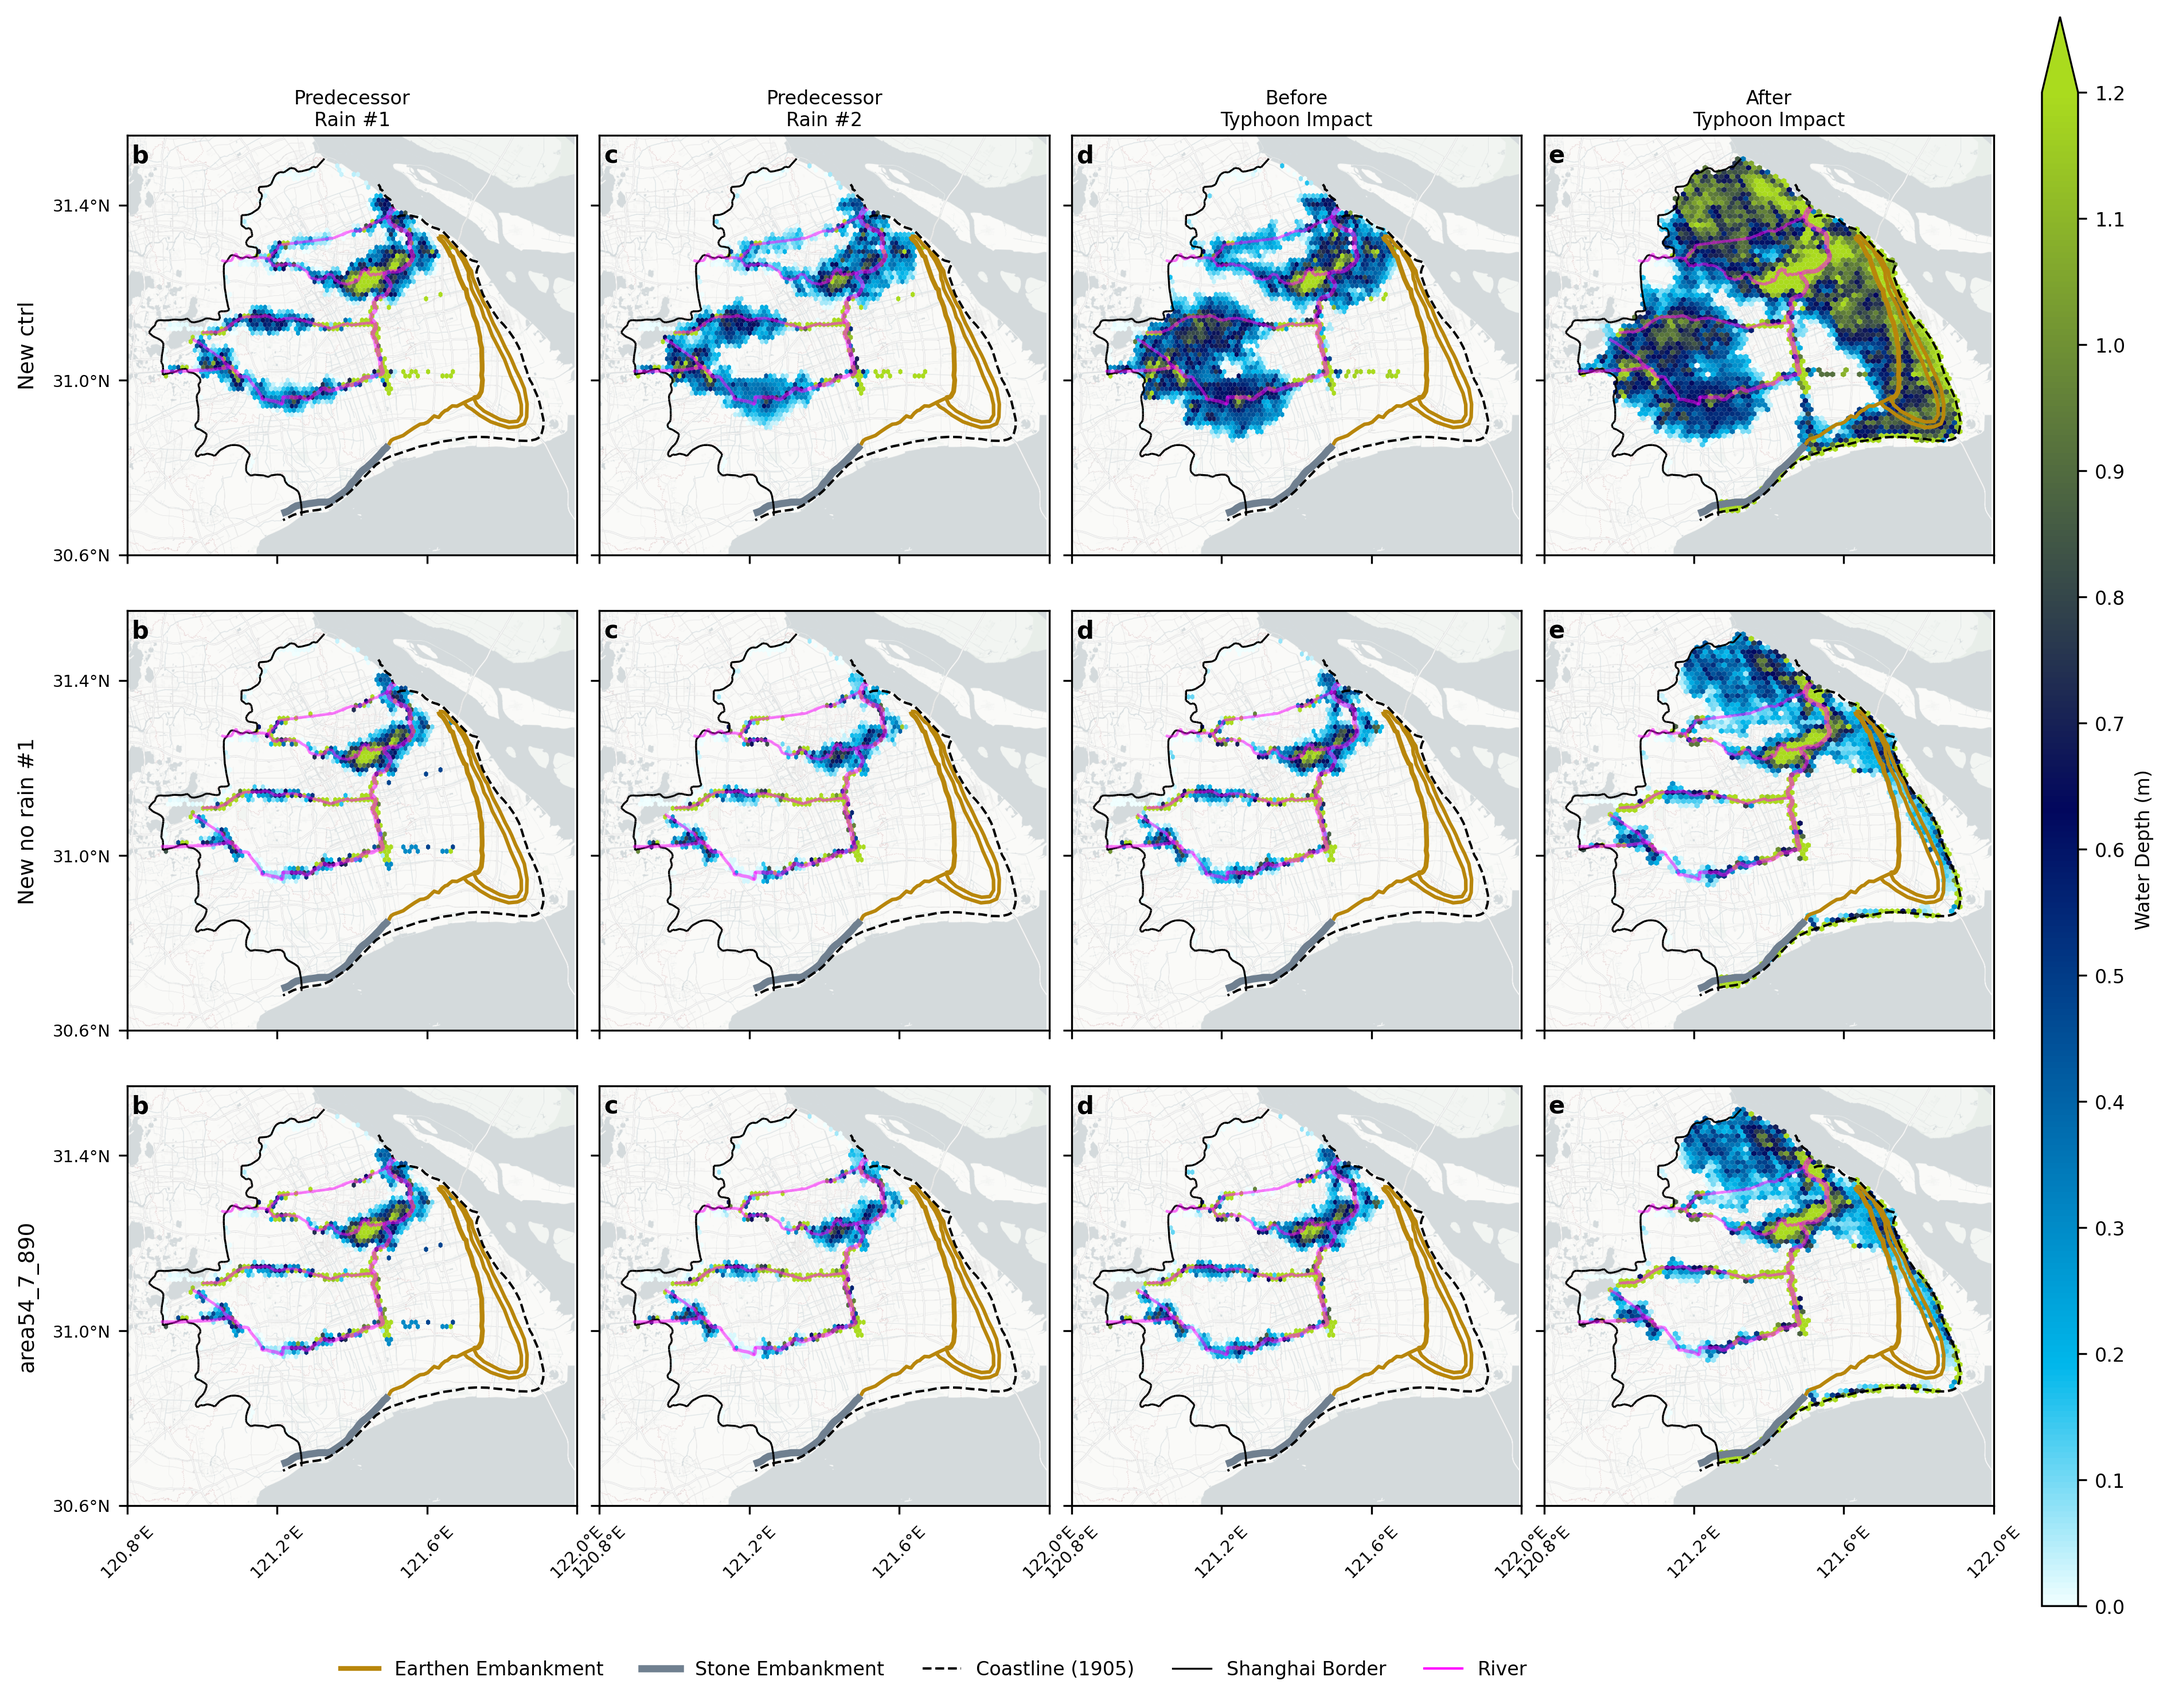
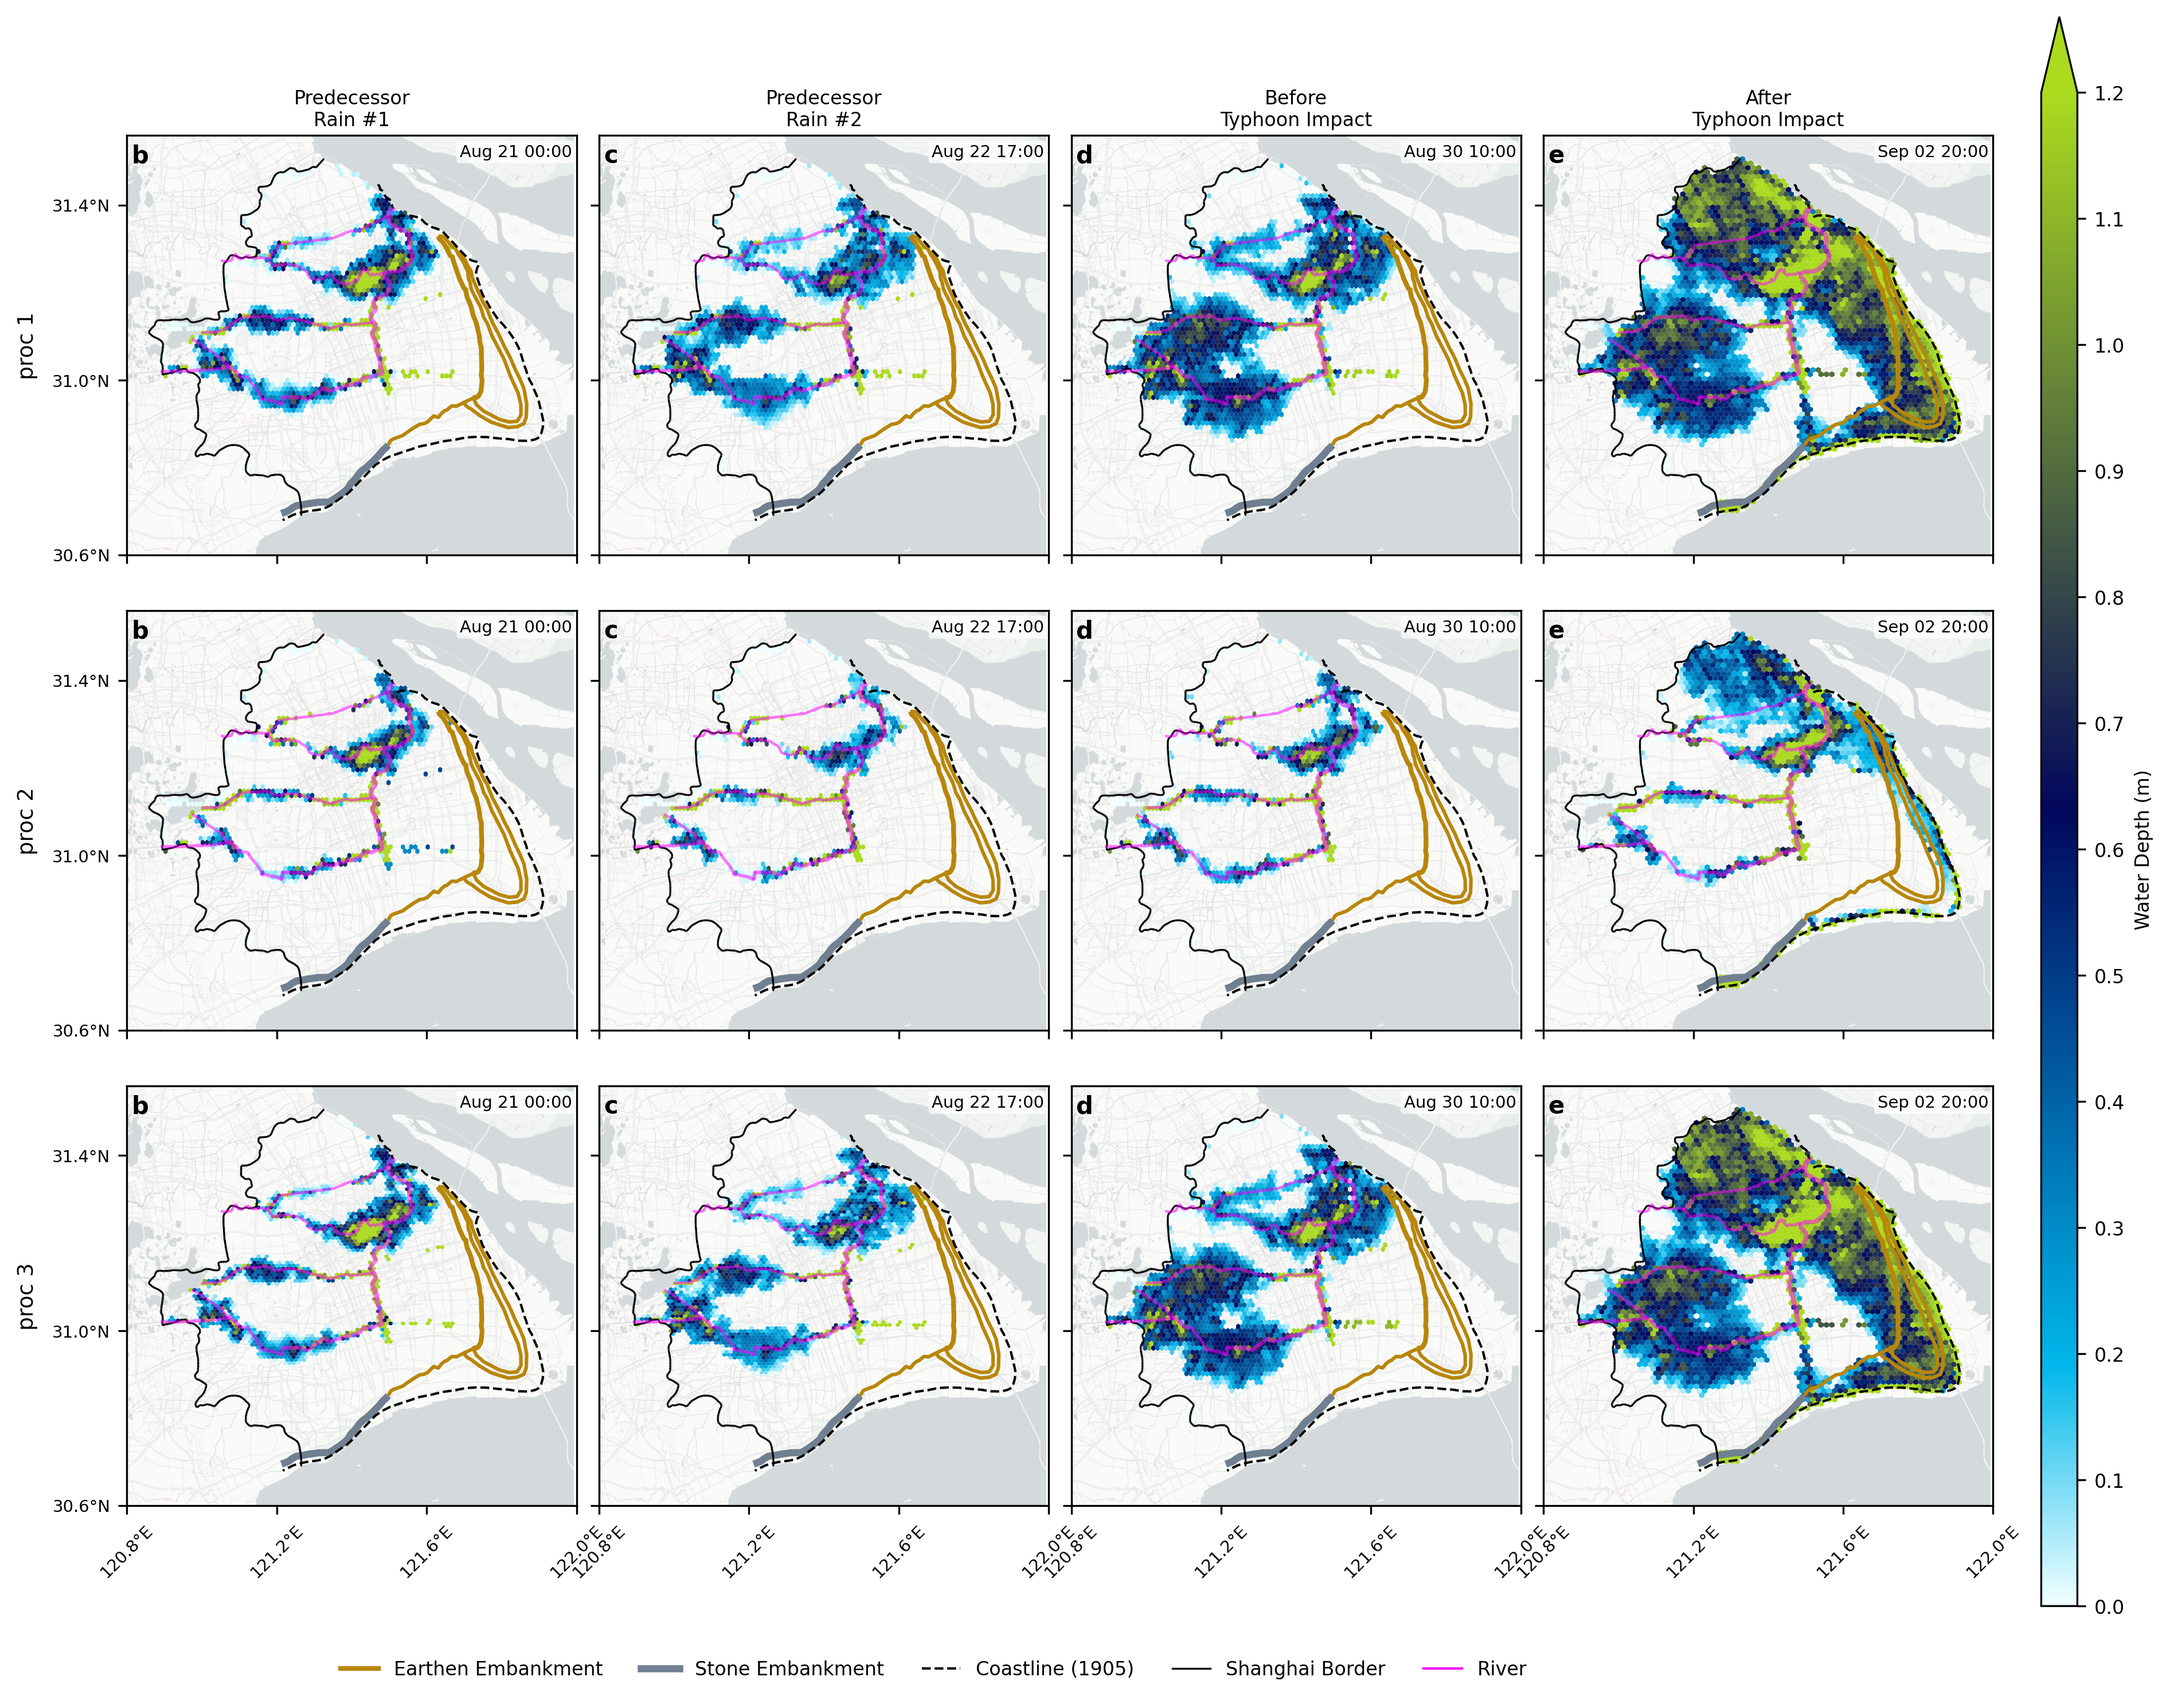
Update norain1 comparison: add proc3 row and snapshot timestamps
- Replace area54_7_890 (proc2) placeholder with new_postproc3/infil_7_890_rain
- Relabel rows as proc 1 / proc 2 / proc 3
- Add snapshot time labels (top-right corner of each panel)

diff --git a/Fig_norain1_comparison.py b/Fig_norain1_comparison.py
@@ -1,8 +1,8 @@
 """
-3 rows × 4 columns comparison for new_postproc2 simulations.
-  Row 1: new ctrl        (new_postproc1/infil_7_890_rain)
-  Row 2: new no rain #1  (new_postproc2/infil_7_890_rain)
-  Row 3: area54_7_890    (new_postproc2/area54_7_890)
+3 rows × 4 columns comparison.
+  Row 1: proc 1  (new_postproc1/infil_7_890_rain)
+  Row 2: proc 2  (new_postproc2/infil_7_890_rain)
+  Row 3: proc 3  (new_postproc3/infil_7_890_rain)
 
 Timesteps (verified against original fig files by depth correlation):
   t49  → Predecessor Rain #1  (Aug 21 00:00)
@@ -33,14 +33,15 @@ RIVER_DIR  = f"{BASE}/市管河道/"
 RIVER_MASK = f"{BASE}/river_mask.xyz"
 
 SCENARIOS = [
-    (f"{BASE}/postproc/new_postproc1/infil_7_890_rain/text", "New ctrl"),
-    (f"{BASE}/postproc/new_postproc2/infil_7_890_rain/text", "New no rain #1"),
-    (f"{BASE}/postproc/new_postproc2/area54_7_890/text",     "area54_7_890"),
+    (f"{BASE}/postproc/new_postproc1/infil_7_890_rain/text", "proc 1"),
+    (f"{BASE}/postproc/new_postproc2/infil_7_890_rain/text", "proc 2"),
+    (f"{BASE}/postproc/new_postproc3/infil_7_890_rain/text", "proc 3"),
 ]
 
-TIMESTEPS  = [49, 90, 275, 357]
-COL_TITLES = ["Predecessor\nRain #1", "Predecessor\nRain #2",
-              "Before\nTyphoon Impact", "After\nTyphoon Impact"]
+TIMESTEPS   = [49, 90, 275, 357]
+COL_TITLES  = ["Predecessor\nRain #1", "Predecessor\nRain #2",
+               "Before\nTyphoon Impact", "After\nTyphoon Impact"]
+SNAP_TIMES  = ["Aug 21 00:00", "Aug 22 17:00", "Aug 30 10:00", "Sep 02 20:00"]
 PANEL_LABELS = ["b", "c", "d", "e"]
 
 # ── Static layers ──────────────────────────────────────────────────────────
@@ -180,6 +181,9 @@ for row_idx, (text_dir, row_label) in enumerate(SCENARIOS):
 
         ax.text(0.01, 0.98, PANEL_LABELS[col_idx], transform=ax.transAxes,
                 fontsize=10, fontweight="bold", va="top", ha="left")
+        ax.text(0.99, 0.98, SNAP_TIMES[col_idx], transform=ax.transAxes,
+                fontsize=7, va="top", ha="right",
+                bbox=dict(boxstyle="round,pad=0.2", fc="white", alpha=0.7, ec="none"))
 
         if row_idx == 0:
             ax.set_title(col_title, fontsize=8, pad=4)
